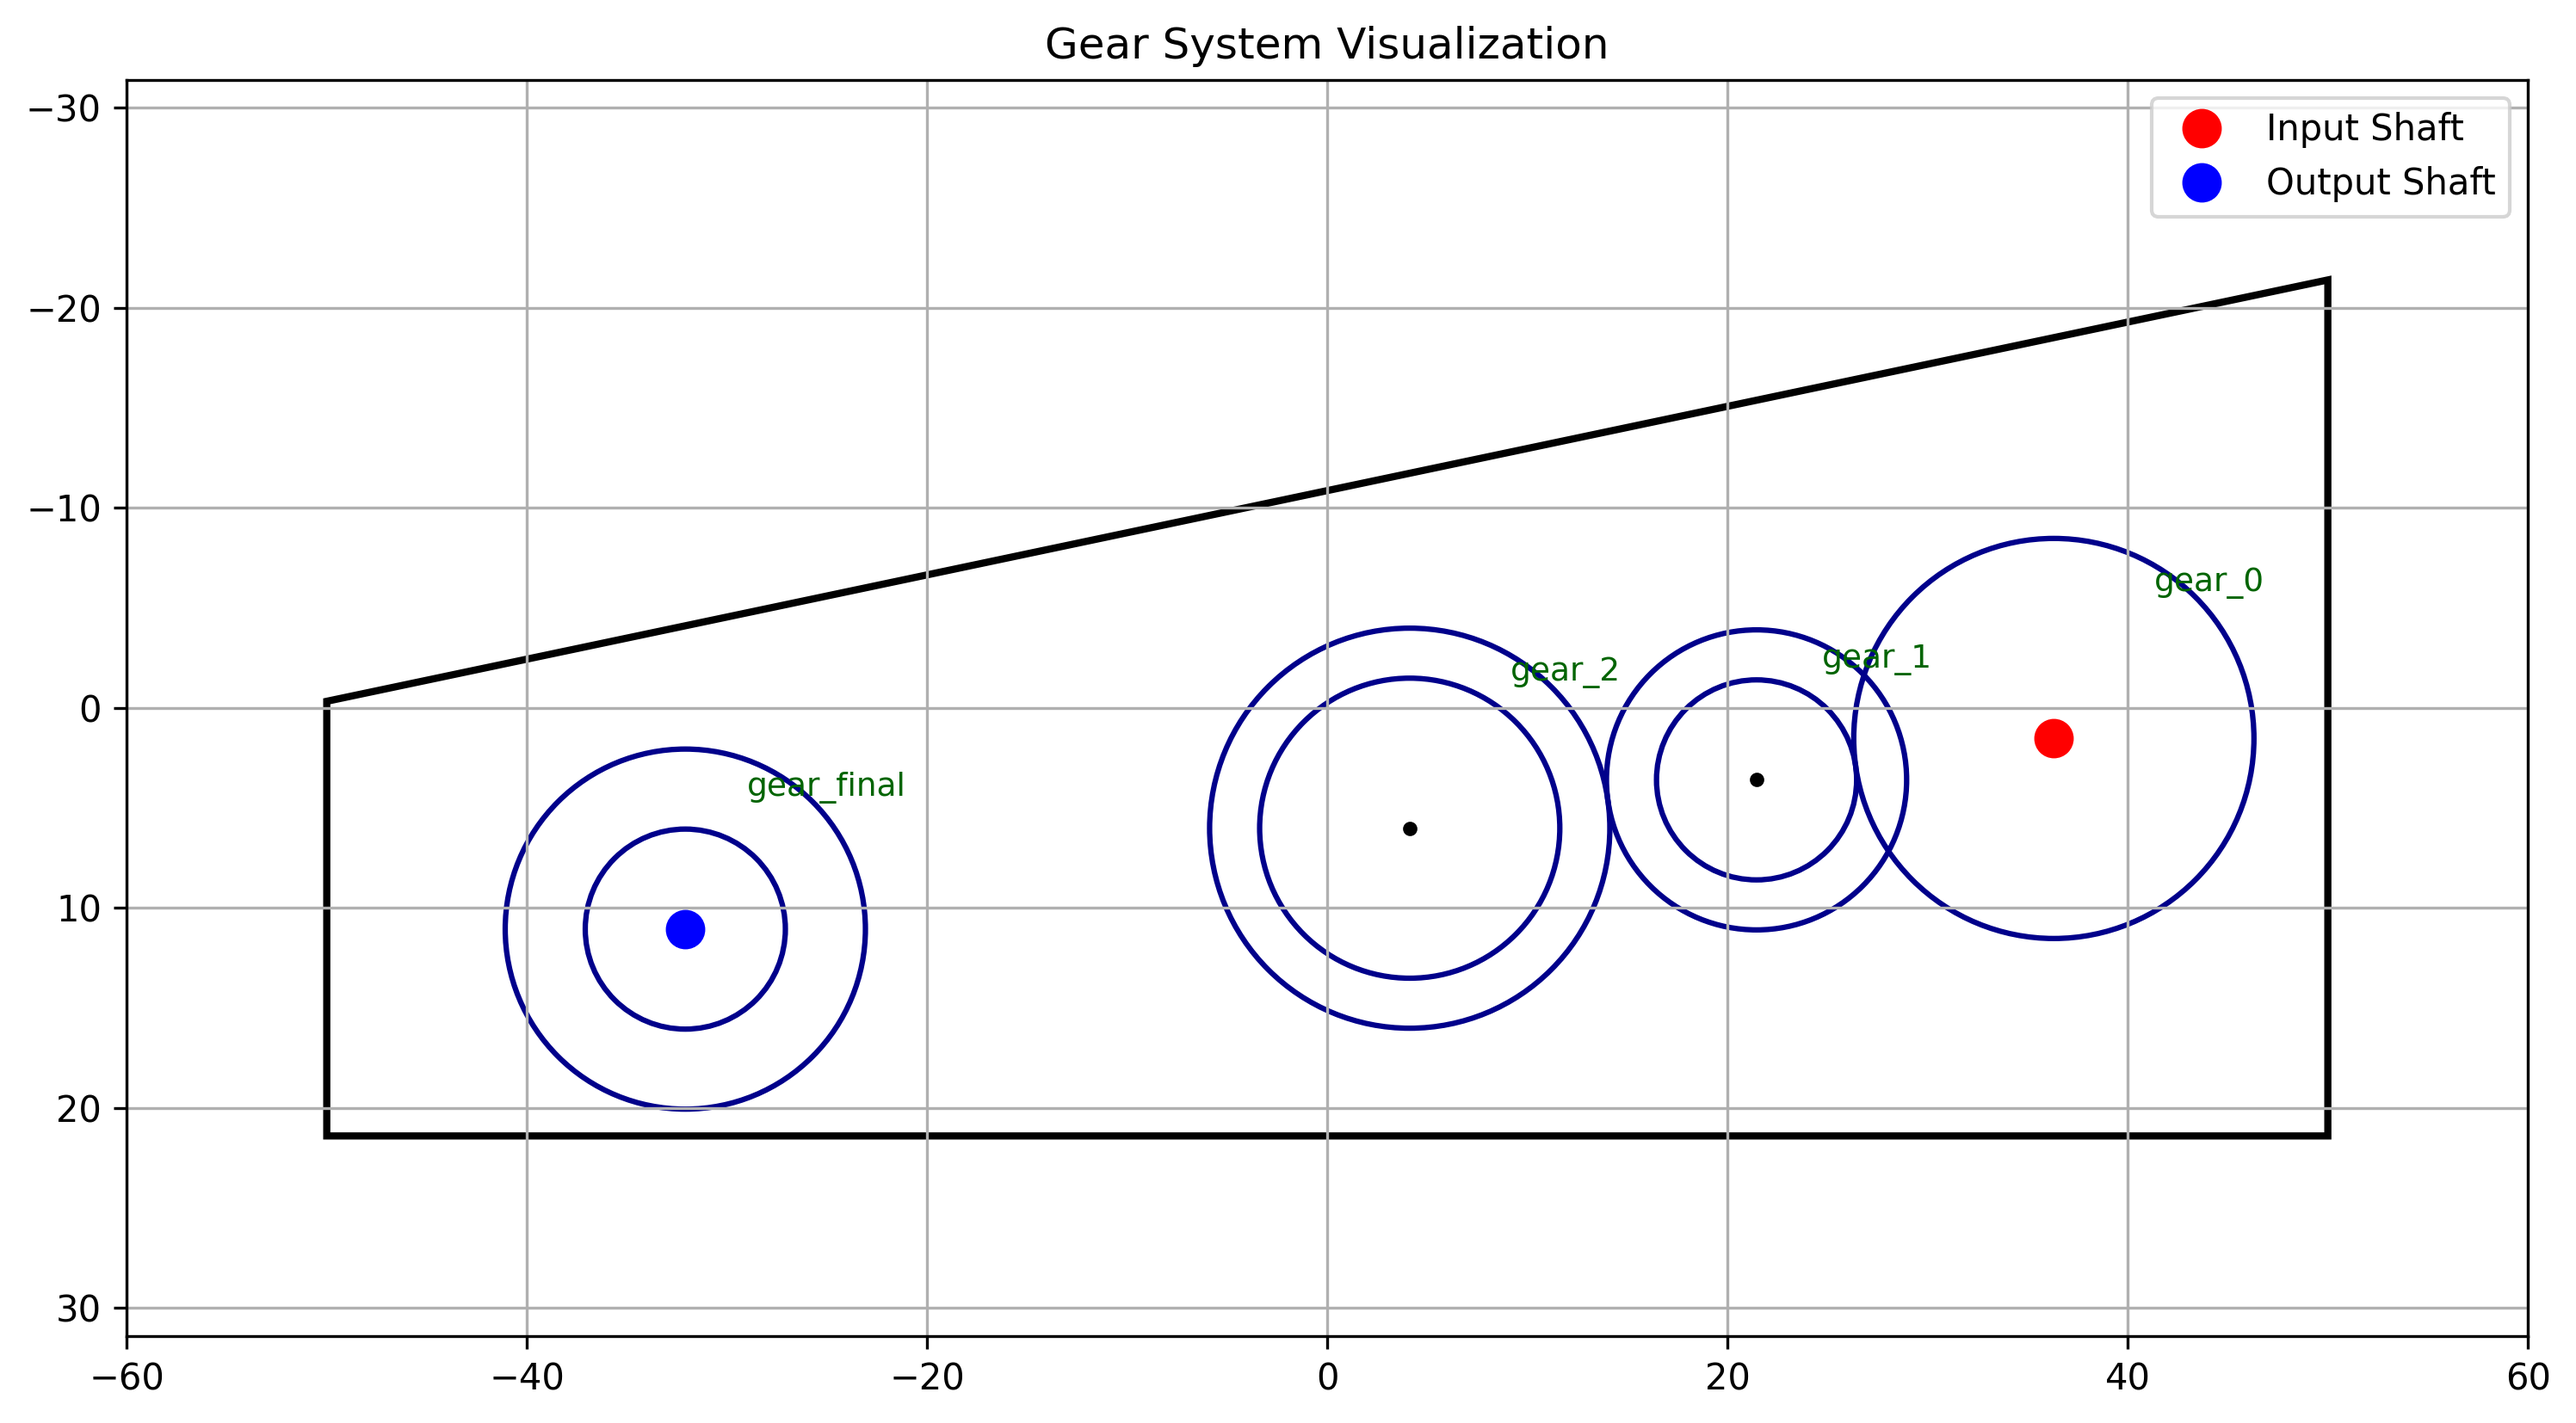
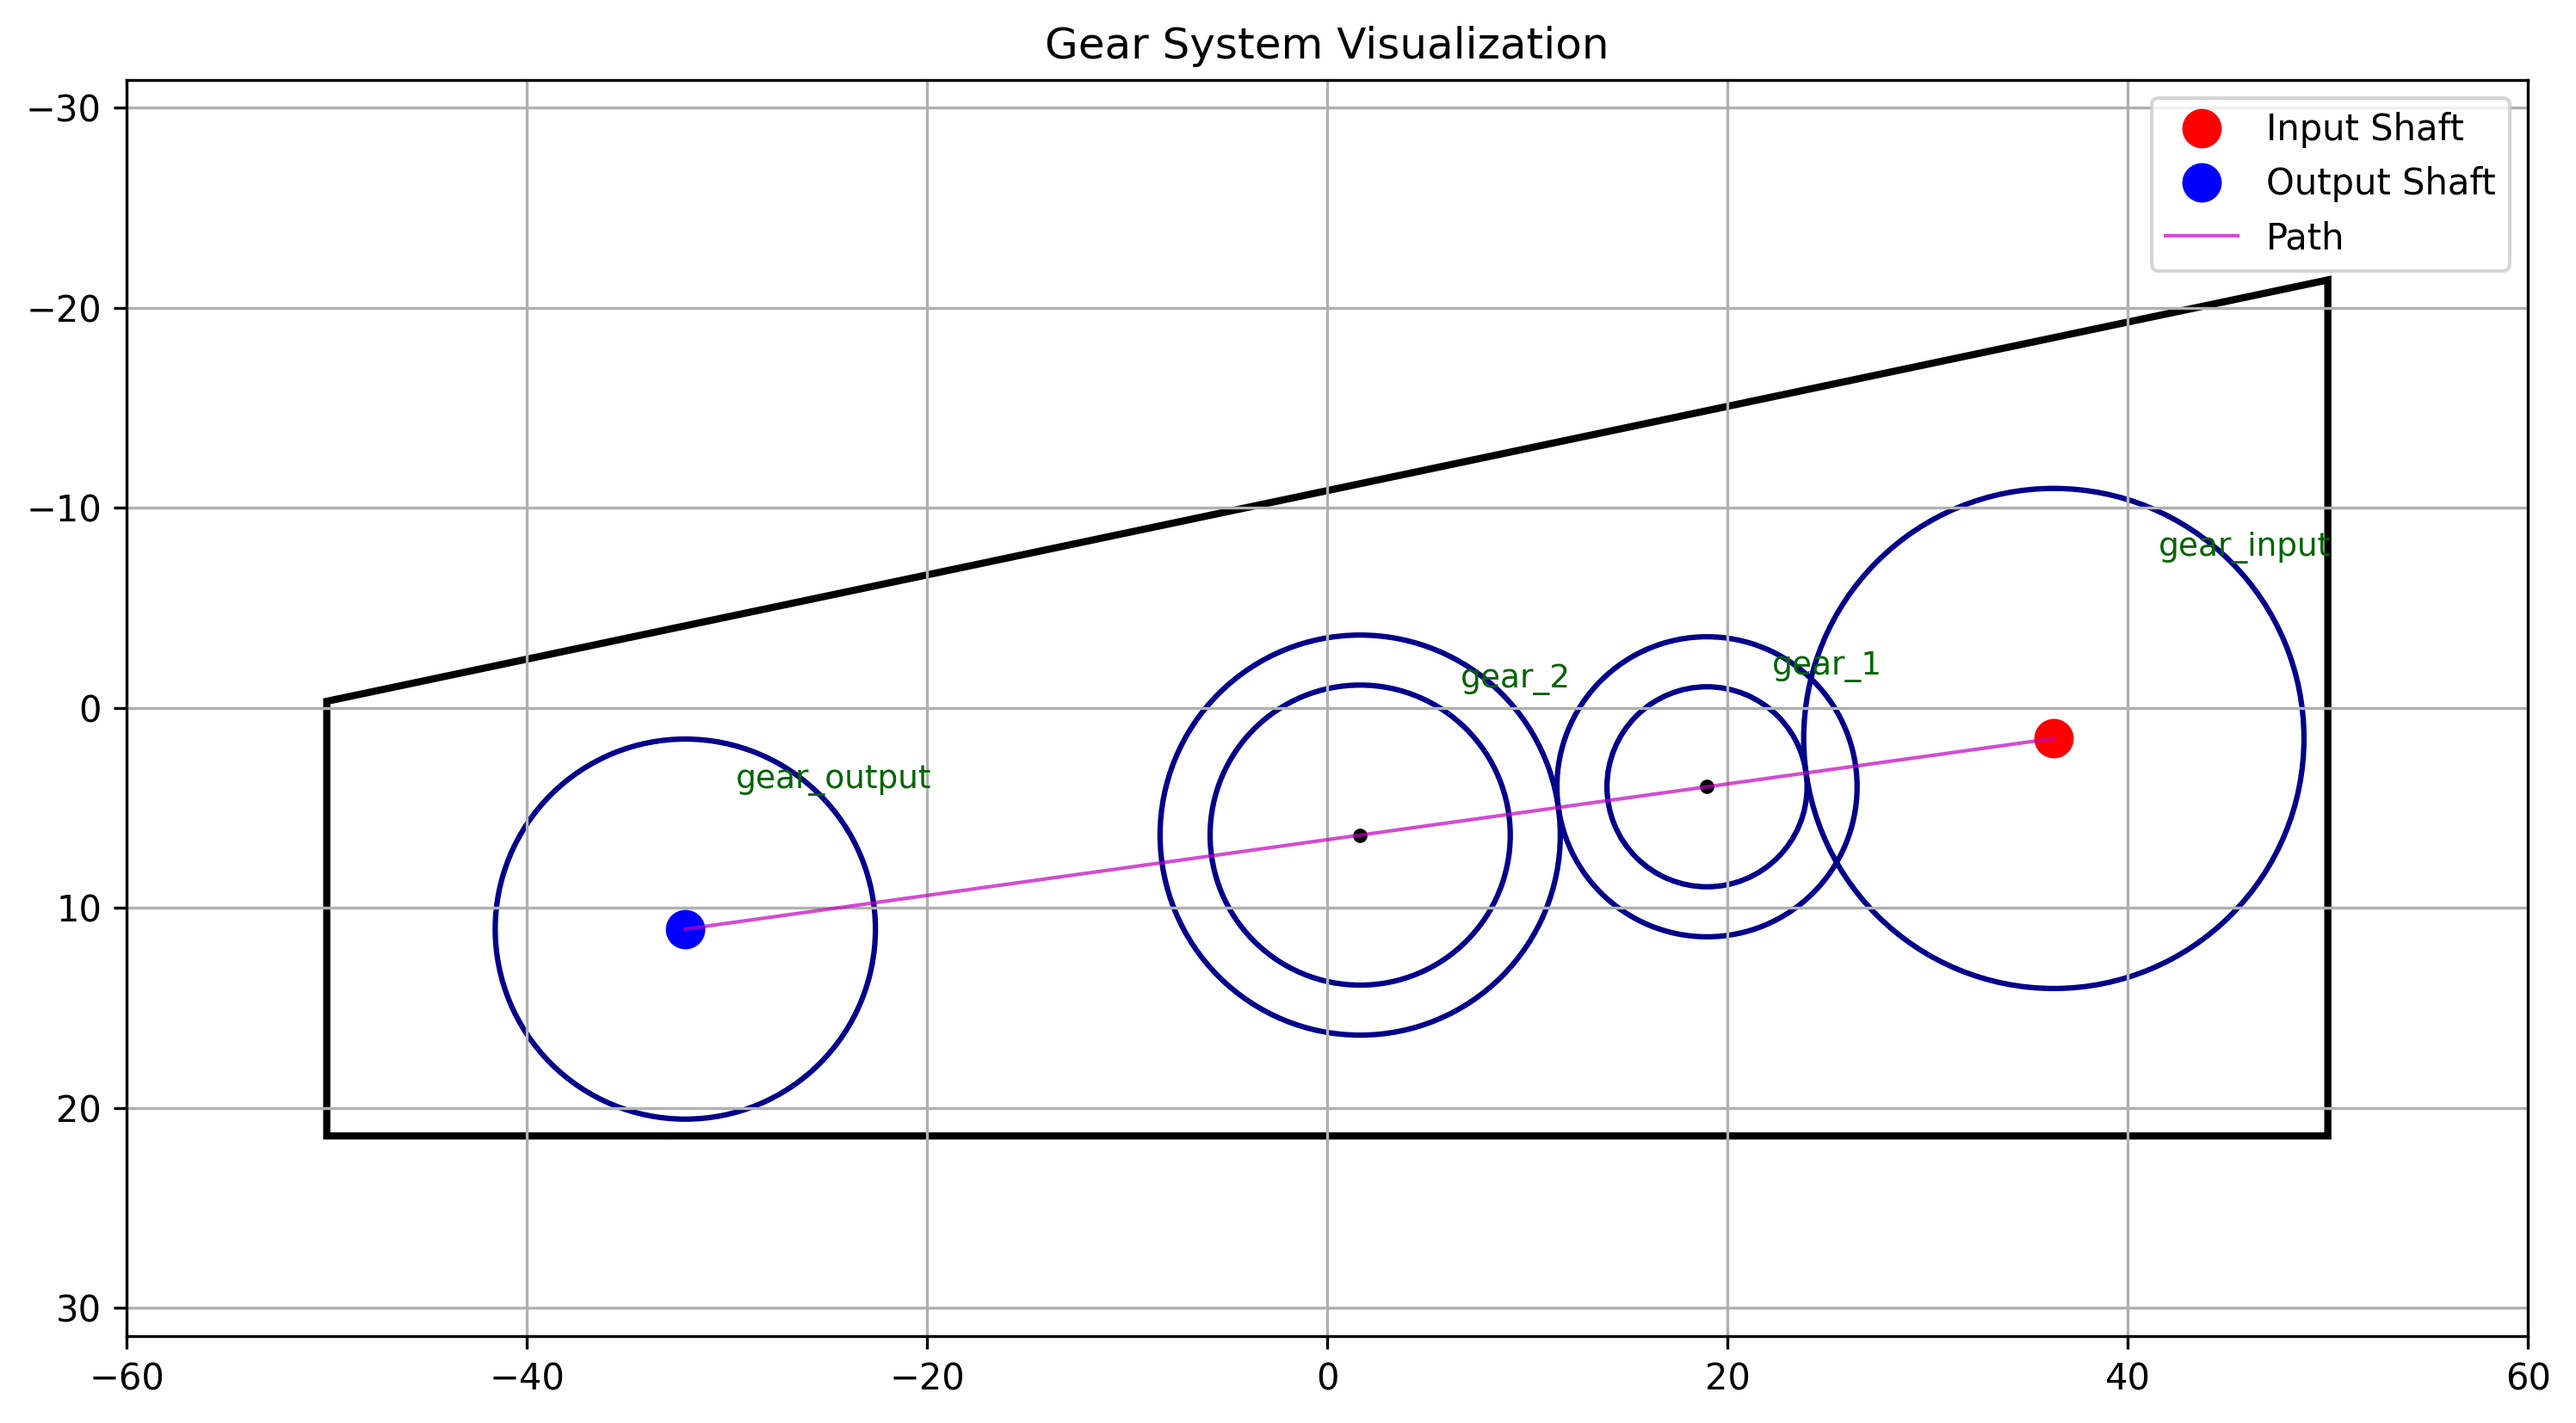
gear initializer

diff --git a/geometry_env/simulator.py b/geometry_env/simulator.py
@@ -1,57 +1,70 @@
 import math
 from typing import List, Tuple
 from common.data_models import Point
+from gear_generator.common import GearSet
+from gear_generator.factory import GearFactory
 
 
 # from common.data_models import Gear
 
 class GearTrainSimulator:
-    def __init__(self, path: List[tuple], input_shaft: Tuple[float, float],
-                 output_shaft: Tuple[float, float], boundaries: List[List[float]],
-                 gear_factory, clearance_margin: float = 1.0):
+    def __init__(self, path: List[list[float]], input_shaft: Tuple[float, float],
+                 output_shaft: Tuple[float, float], boundaries: List[list[float]],
+                 gear_factory: GearFactory, clearance_margin: float = 1.0):
         
         self.path = [Point(x=p[0], y=p[1]) for p in path]
+        # self.path = path
         self.input_shaft = Point(x=input_shaft[0], y=input_shaft[1])
         self.output_shaft = Point(x=output_shaft[0], y=output_shaft[1])
         self.boundaries = [Point(x=p[0], y=p[1]) for p in boundaries]
         self.gear_factory = gear_factory
         self.clearance_margin = clearance_margin
 
-        self.gears = []
-        self.last_gear = None
-        self.distance_on_path = 0.0 # NEW: Tracks progress along the path
+        self.gears: List[GearSet] = []
+        self.last_gear: GearSet = None
+        self.input_gear: GearSet = None  # NEW
+        self.output_gear: GearSet = None # NEW
+        self.distance_on_path: float = 0.0
 
-    def reset(self, initial_gear_teeth: int = 20):
+    def reset(self, initial_gear_teeth: int = None): # initial_gear_teeth is no longer used
         self.gears = []
         
-        first_gear = self.gear_factory.create_gear(
-            gear_id='gear_0',
+        # 1. Calculate max possible radius at input and output shafts
+        max_input_radius = self._distance_to_boundary(self.input_shaft, self.boundaries) - self.clearance_margin
+        max_output_radius = self._distance_to_boundary(self.output_shaft, self.boundaries) - self.clearance_margin
+
+        if max_input_radius <= 0 or max_output_radius <= 0:
+            return self._get_state(), 0, True, {"error": "Input/Output shaft too close to boundary to place any gear."}
+
+        # 2. Create the largest possible gears
+        self.input_gear = self.gear_factory.create_gear_from_diameter(
+            gear_id='gear_input',
             center=(self.input_shaft.x, self.input_shaft.y),
-            num_teeth=initial_gear_teeth
+            desired_diameter=max_input_radius * 2
         )
-        
-        total_margin = first_gear.driven_radius + self.clearance_margin
-        if not self._is_valid_placement(first_gear.center, total_margin):
-            return None, 0, True, {"error": "Initial gear invalid"}
+        self.output_gear = self.gear_factory.create_gear_from_diameter(
+            gear_id='gear_output',
+            center=(self.output_shaft.x, self.output_shaft.y),
+            desired_diameter=max_output_radius * 2
+        )
 
-        self.gears.append(first_gear)
-        self.last_gear = first_gear
+        # 3. Set the initial state of the train
+        self.gears = [self.input_gear, self.output_gear]
+        self.last_gear = self.input_gear # The train starts from the input gear
         
-        # Initialize distance by finding where the input shaft lies on the path
         self.distance_on_path = self._get_path_distance_of_point(self.input_shaft)
         
         return self._get_state(), 0, False, {}
 
     def step(self, action: tuple):
         driven_teeth, driving_teeth = action
-        new_teeth_count = [driven_teeth, driving_teeth] if driven_teeth != driving_teeth else [driven_teeth]
+        new_teeth_counts = [driven_teeth, driving_teeth] if driven_teeth != driving_teeth else [driven_teeth]
         
         meshing_dist = self.gear_factory.get_meshing_distance(
             self.last_gear.teeth_count[-1],
             driven_teeth
         )
         
-        # NEW: Calculate next position by adding to current distance
         self.distance_on_path += meshing_dist
         next_center = self._find_point_on_path(self.distance_on_path)
 
@@ -59,24 +72,41 @@ class GearTrainSimulator:
             return self._get_state(), -100.0, True, {"error": "End of path reached"}
 
         new_gear_set = self.gear_factory.create_gear(
-            gear_id=f'gear_{len(self.gears)}',
+            gear_id=f'gear_{len(self.gears)-1}', # -1 to account for output gear
             center=(next_center.x, next_center.y),
-            num_teeth=new_teeth_count
+            num_teeth=new_teeth_counts
         )
-       
+        
         max_radius = max(new_gear_set.radii)
         total_margin = max_radius + self.clearance_margin
         if not self._is_valid_placement(new_gear_set.center, total_margin):
             return self._get_state(), -100.0, True, {"error": "Invalid placement, too close to boundary"}
 
-        self.gears.append(new_gear_set)
+        # Insert the new gear before the final output gear in the list
+        self.gears.insert(-1, new_gear_set)
         self.last_gear = new_gear_set
         
-        dist_to_target = self._distance(self.last_gear.center, self.output_shaft)
-        if dist_to_target <= self.last_gear.driving_radius:
-            return self._get_state(), 100.0, True, {"success": "Output shaft reached"}
+        # --- NEW SUCCESS CONDITION ---
+        # Check if the new gear can mesh with the pre-placed output gear
+        dist_to_output_gear = self._distance(self.last_gear.center, self.output_gear.center)
+        required_meshing_dist = self.last_gear.driving_radius + self.output_gear.driven_radius
+        
+        if abs(dist_to_output_gear - required_meshing_dist) < 0.5: # Tolerance for success
+            return self._get_state(), 100.0, True, {"success": "Successfully connected to output gear"}
 
         return self._get_state(), -1.0, False, {}
+
+    def _get_state(self):
+        """The state now includes information about the target (output) gear."""
+        if not self.last_gear or not self.output_gear: return None
+        return {
+            "last_gear_center_x": self.last_gear.center.x,
+            "last_gear_center_y": self.last_gear.center.y,
+            "last_gear_driving_radius": self.last_gear.driving_radius,
+            "target_gear_center_x": self.output_gear.center.x,
+            "target_gear_center_y": self.output_gear.center.y,
+            "target_gear_driven_radius": self.output_gear.driven_radius
+        }
 
     def _find_point_on_path(self, target_distance: float):
         """Finds a point on the path at a specific distance from the start of the path."""

diff --git a/tests/test_gear_generation.py b/tests/test_gear_generation.py
@@ -39,24 +39,26 @@ def test_run_full_pipeline(fn='Example1'):
 
     # 3. --- Pathfinding Step ---
     print("\n--- Finding Optimal Path ---")
-    path_json_path = os.path.join(CONFIG['OUTPUT_DIR'], 'path.json')
-    path_image_path = os.path.join(CONFIG['OUTPUT_DIR'], 'path.png')
+    path_json_path = os.path.join(CONFIG['OUTPUT_DIR'], fn,'path.json')
+    path_image_path = os.path.join(CONFIG['OUTPUT_DIR'], fn, 'path.png')
     
-    finder = Pathfinder()
-    optimal_path = finder.find_path(processed_json_path)
+    # finder = Pathfinder()
+    with open(path_json_path, 'r') as f:
+        optimal_path = json.load(f)
+    # print(optimal_path)
+    # optimal_path = finder.find_path(processed_json_path)
     
     if optimal_path:
         # Save path to JSON
-        with open(path_json_path, 'w') as f:
-            json.dump(optimal_path, f, indent=4)
-        print(f"Path saved to {path_json_path}")
+        # with open(path_json_path, 'w') as f:
+        #     json.dump(optimal_path, f, indent=4)
+        # print(f"Path saved to {path_json_path}")
 
         # Generate visualization
-        path_points = [Point(x=p[0], y=p[1]) for p in optimal_path]
-        Renderer.render_processed_data(
+        Renderer.render_path(
             processed_json_path,
             path_image_path,
-            path=path_points
+            path=optimal_path
         )
         print(f"Visualization saved to {path_image_path}")
     else:
@@ -158,4 +160,4 @@ def test_run_full_pipeline(fn='Example1'):
     print(f"Visualization saved to: {output_image_path}")
 
 if __name__ == "__main__":
-    test_run_full_pipeline("Example1")
+    test_run_full_pipeline("Example2")

diff --git a/visualization/renderer.py b/visualization/renderer.py
@@ -53,8 +53,9 @@ class Renderer:
         
         # Plot path if provided
         if path:
-            path_x = [p[0] for p in path]
-            path_y = [p[1] for p in path]
+            # print(path)
+            path_x = [p.x for p in path]
+            path_y = [p.y for p in path]
             ax.plot(path_x, path_y, 'm-', linewidth=1, alpha=0.7, label='Path')
         
         # Set plot properties
